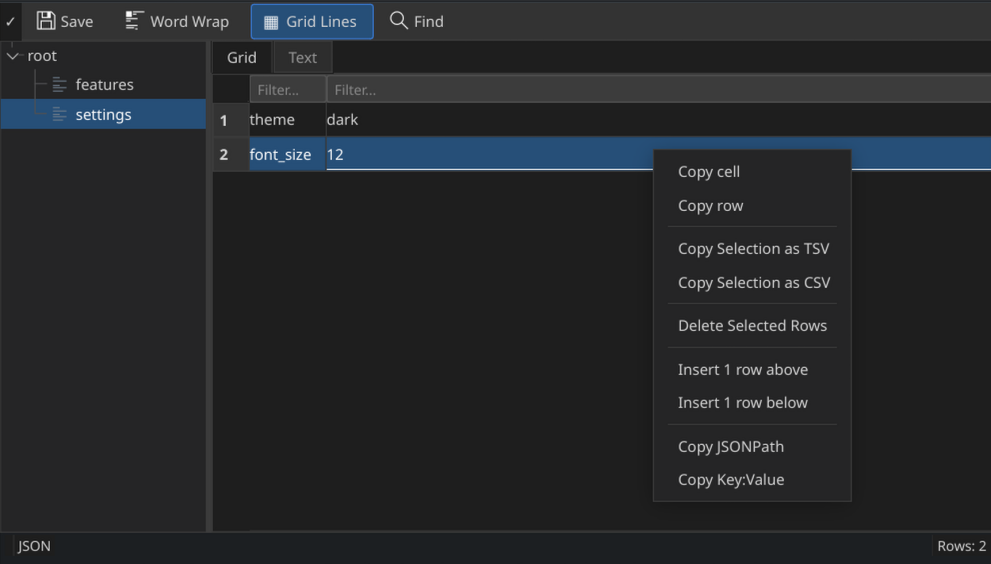
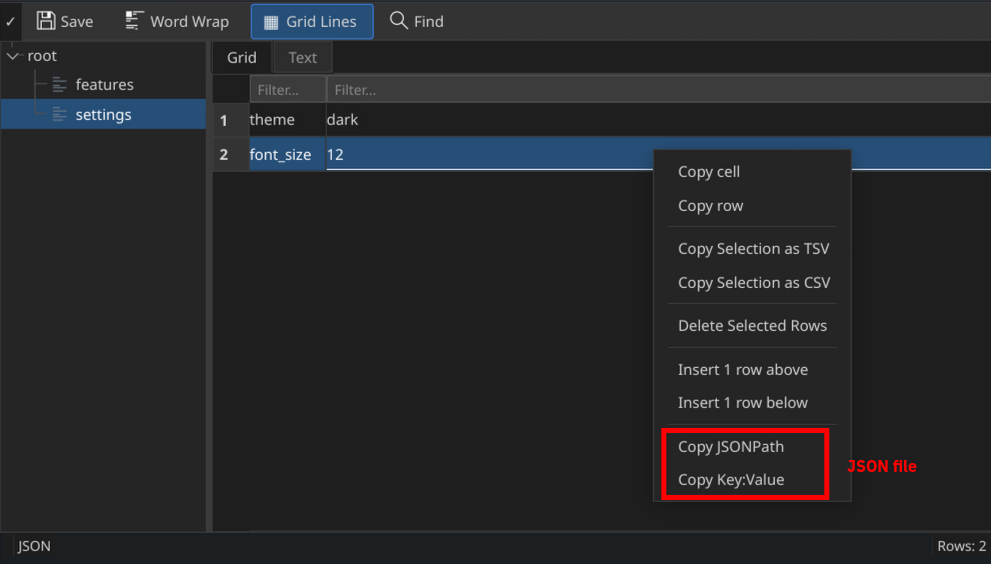
docs: update structview README and screenshots

Changed region(s): [[0.666, 0.7535, 0.9384, 0.9043]]

diff --git a/wlx/structview/README.md b/wlx/structview/README.md
@@ -15,12 +15,18 @@ This plugin ships as **two independent native builds** — one for DC's **GTK3**
 - **Open Externally** — launches the file in the system's default external application (see shortcut difference below)
 - **Word wrap** and **grid lines** toggles
 
+![](/home/pplupo/.config/marktext/images/2026-08-26-15-50-19-structview_json.png)
+
+![](/home/pplupo/.config/marktext/images/2026-08-26-15-50-26-structview_xml.png)
+
+![](/home/pplupo/.config/marktext/images/2026-08-26-15-50-35-structview_cbor_edit.png)
+
 ## Feature Differences (GTK3 vs Qt6)
 
-| | GTK3 | Qt6 |
-|---|---|---|
-| Open Externally shortcut | **`Ctrl+E`** — DC's GTK3 build treats `Ctrl+O` as a hardcoded hotkey that a plugin's key-snooper cannot preempt, so this variant deliberately uses a different binding | **`Ctrl+O`** |
-| Encoding auto-detection | **Not implemented** — files are read as-is, no non-UTF-8 encoding conversion | Detects file encoding via `EncodingUtils`/enca and auto-converts non-UTF-8 files |
+|                          | GTK3                                                                                                                                                                   | Qt6                                                                              |
+| ------------------------ | ---------------------------------------------------------------------------------------------------------------------------------------------------------------------- | -------------------------------------------------------------------------------- |
+| Open Externally shortcut | **`Ctrl+E`** — DC's GTK3 build treats `Ctrl+O` as a hardcoded hotkey that a plugin's key-snooper cannot preempt, so this variant deliberately uses a different binding | **`Ctrl+O`**                                                                     |
+| Encoding auto-detection  | **Not implemented** — files are read as-is, no non-UTF-8 encoding conversion                                                                                           | Detects file encoding via `EncodingUtils`/enca and auto-converts non-UTF-8 files |
 
 Everything else — JSON/XML/INI parsing and editing, Find, undo/redo, Save, Word wrap/grid lines — is implemented equivalently in both variants via the shared `structview_core` library.
 
@@ -62,6 +68,7 @@ structview_gtk3.wlx (shared library)
 ## Building
 
 ### Prerequisites (both variants)
+
 - CMake ≥ 3.20
 - C++17 compiler
 
@@ -101,16 +108,16 @@ EXT="JSON" | EXT="XML" | EXT="INI"
 
 ## Keyboard Shortcuts
 
-| Shortcut | Action | GTK3 | Qt6 |
-|----------|--------|:---:|:---:|
-| Ctrl+S | Save file | ✅ | ✅ |
-| Ctrl+Z | Undo | ✅ | ✅ |
-| Ctrl+Shift+Z / Ctrl+Y | Redo | ✅ | ✅ |
-| Ctrl+F | Toggle Find panel | ✅ | ✅ |
-| Ctrl+C | Copy selection | ✅ | ✅ |
-| Ctrl+V | Paste | ✅ | ✅ |
-| Ctrl+E | Open Externally | ✅ | — |
-| Ctrl+O | Open Externally | — | ✅ |
+| Shortcut              | Action            | GTK3 | Qt6 |
+| --------------------- | ----------------- |:----:|:---:|
+| Ctrl+S                | Save file         | ✅    | ✅   |
+| Ctrl+Z                | Undo              | ✅    | ✅   |
+| Ctrl+Shift+Z / Ctrl+Y | Redo              | ✅    | ✅   |
+| Ctrl+F                | Toggle Find panel | ✅    | ✅   |
+| Ctrl+C                | Copy selection    | ✅    | ✅   |
+| Ctrl+V                | Paste             | ✅    | ✅   |
+| Ctrl+E                | Open Externally   | ✅    | —   |
+| Ctrl+O                | Open Externally   | —    | ✅   |
 
 ## Future
 
